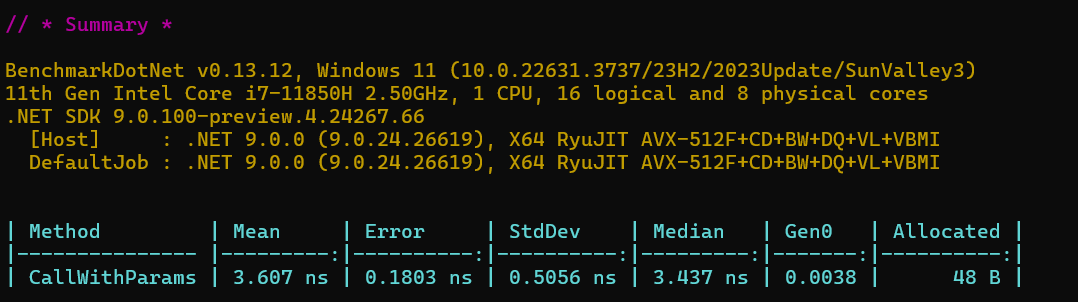
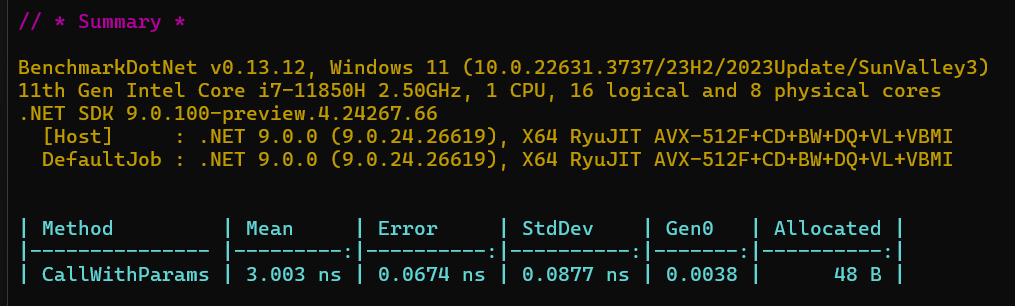
Tidy example

Changed region(s): [[0.0, 0.1788, 0.9773, 0.5662], [0.0, 0.7152, 0.9468, 0.9536], [0.0, 0.0298, 0.1833, 0.1192]]

diff --git a/BenchmarkDotnet/Test/Program.cs b/BenchmarkDotnet/Test/Program.cs
@@ -16,13 +16,7 @@ public class Tests
         }
     }
 
-    public int Called(params int[] args)
-    {
-        return args[2];
-    }
+    int Called(params int[] args) => args[2];
 
-    // public int Called(params ReadOnlySpan<int> args)
-    // {
-    //   return args[2];
-    // }
+    // int Called(params ReadOnlySpan<int> args) => args[2];
 }
